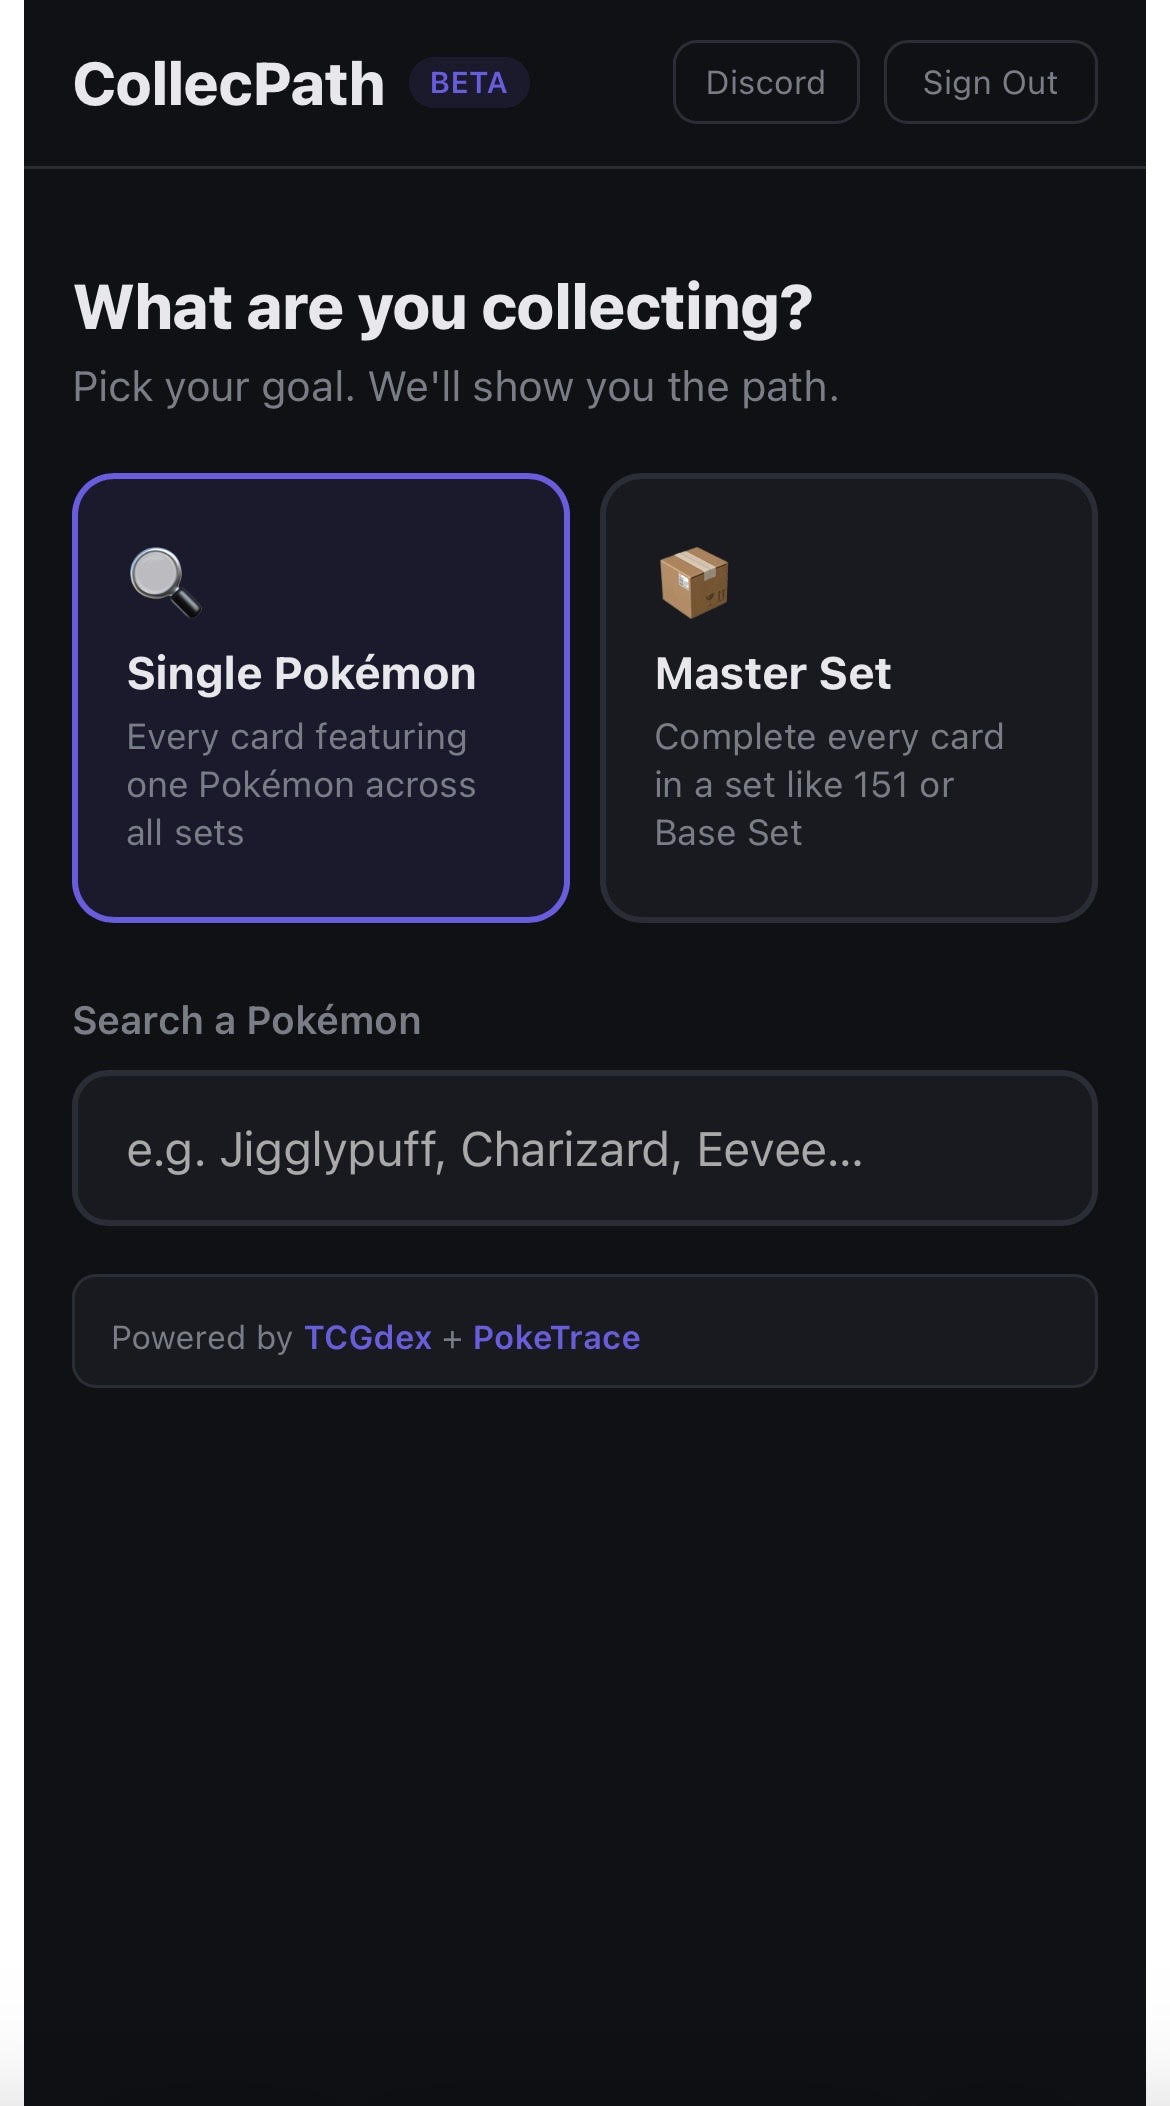
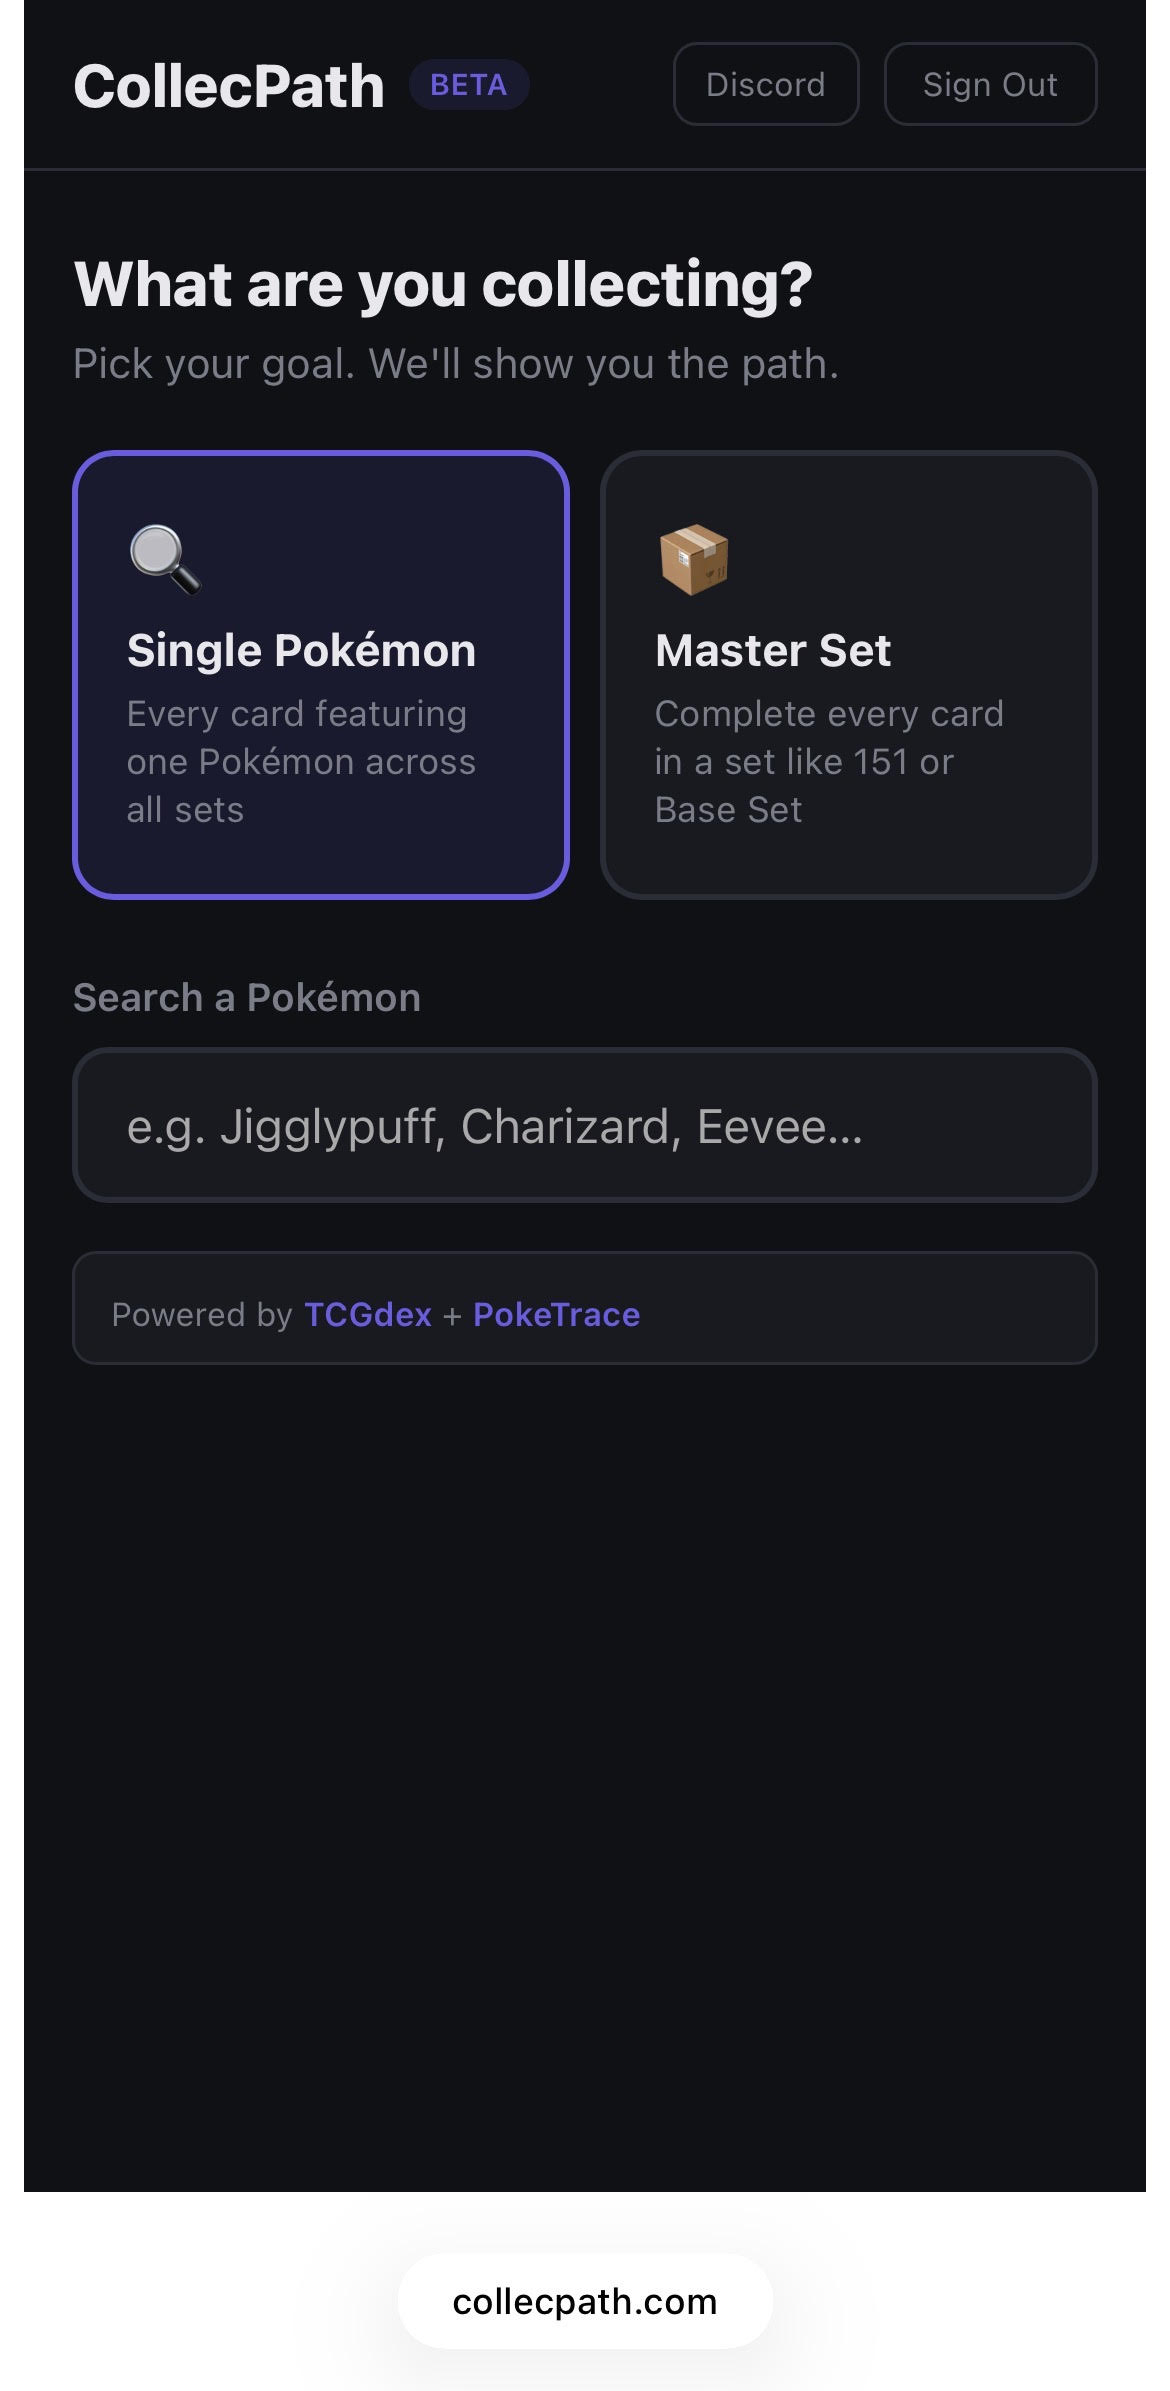
edges fix + back button to landing page

diff --git a/src/App.jsx b/src/App.jsx
@@ -335,7 +335,7 @@ export default function App(){
   const[filter,setFilter]=useState("all");const[vf,setVf]=useState("all");const[sort,setSort]=useState("set");
   const[goals,setGoals]=useState([]);const[detail,setDetail]=useState(null);const[syncStatus,setSyncStatus]=useState("");
 
-  useEffect(()=>{supabase.auth.getSession().then(({data:{session}})=>{setUser(session?.user||null);setAuthLoading(false);});const{data:{subscription}}=supabase.auth.onAuthStateChange((_,session)=>{setUser(session?.user||null);});return()=>subscription.unsubscribe();},[]);
+  useEffect(()=>{supabase.auth.getSession().then(({data:{session}})=>{const u=session?.user||null;setUser(u);setAuthLoading(false);if(u)window.history.replaceState({collecpathView:"app"},"");});const{data:{subscription}}=supabase.auth.onAuthStateChange((_,session)=>{const u=session?.user||null;setUser(u);if(u)window.history.pushState({collecpathView:"app"},"");});return()=>subscription.unsubscribe();},[]);
 
   useEffect(()=>{if(!user)return;setSyncStatus("Syncing…");sbLoadGoals(user.id).then(async dbGoals=>{GS={};for(const g of dbGoals){const oc=await sbLoadOwnedCount(user.id,g.goal_key);GS[g.goal_key]={key:g.goal_key,label:g.label,icon:g.icon||"📦",cards:[],owned:new Set(),updatedAt:new Date(g.updated_at).getTime(),setId:g.set_id||null,needsCards:true,ownedCount:oc};}setGoals([...allG()]);setSyncStatus("");});},[user]);
 
@@ -378,7 +378,7 @@ export default function App(){
   const goHome=(pushState=true)=>{setView("home");setCards([]);setGoalKey(null);setError(null);setFilter("all");setVf("all");if(pushState&&window.history.state?.collecpathView==="results"){window.history.back();}};
 
   // Browser back button support
-  useEffect(()=>{const onPop=(e)=>{if(view==="results"){e.preventDefault();goHome(false);}};window.addEventListener("popstate",onPop);return()=>window.removeEventListener("popstate",onPop);},[view]);
+  useEffect(()=>{const onPop=(e)=>{if(view==="results"){e.preventDefault();goHome(false);}else if(user&&view==="home"){e.preventDefault();signOut();}};window.addEventListener("popstate",onPop);return()=>window.removeEventListener("popstate",onPop);},[view,user]);
 
   const signOut=async()=>{await supabase.auth.signOut();GS={};setGoals([]);setView("home");setCards([]);};
 

diff --git a/index.html b/index.html
@@ -4,7 +4,11 @@
     <meta charset="UTF-8" />
     <link rel="icon" type="image/svg+xml" href="/favicon.svg" />
     <meta name="viewport" content="width=device-width, initial-scale=1.0" />
-    <title>collecpath</title>
+    <title>CollecPath — Track the path to completing your collection</title>
+    <style>
+      * { margin: 0; padding: 0; box-sizing: border-box; }
+      html, body, #root { width: 100%; min-height: 100vh; background: #0f1115; }
+    </style>
   </head>
   <body>
     <div id="root"></div>
